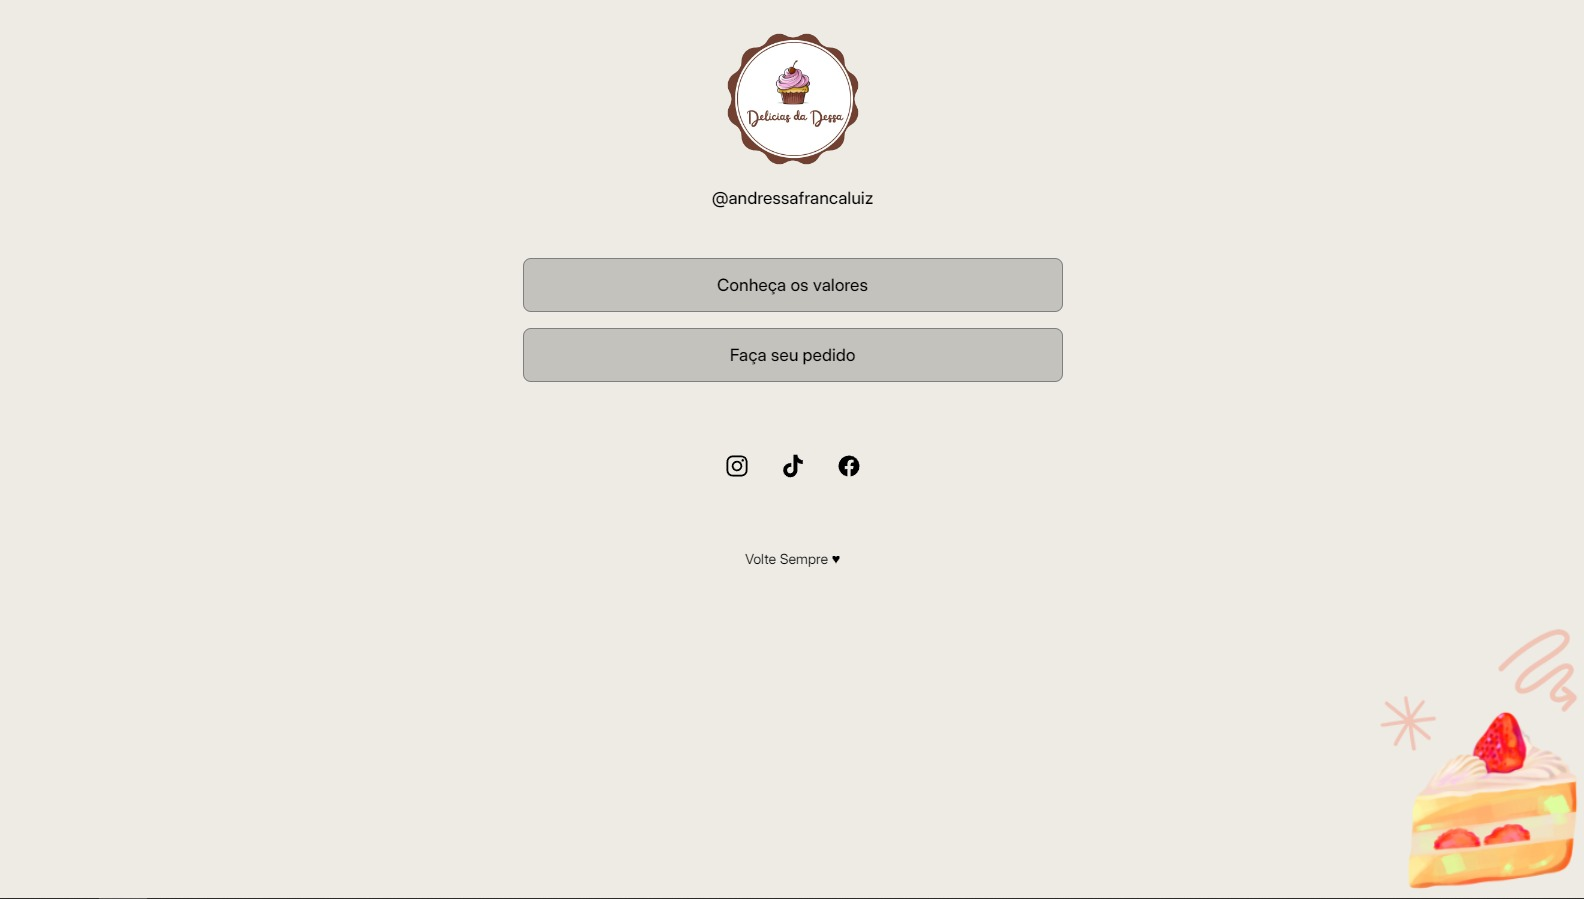
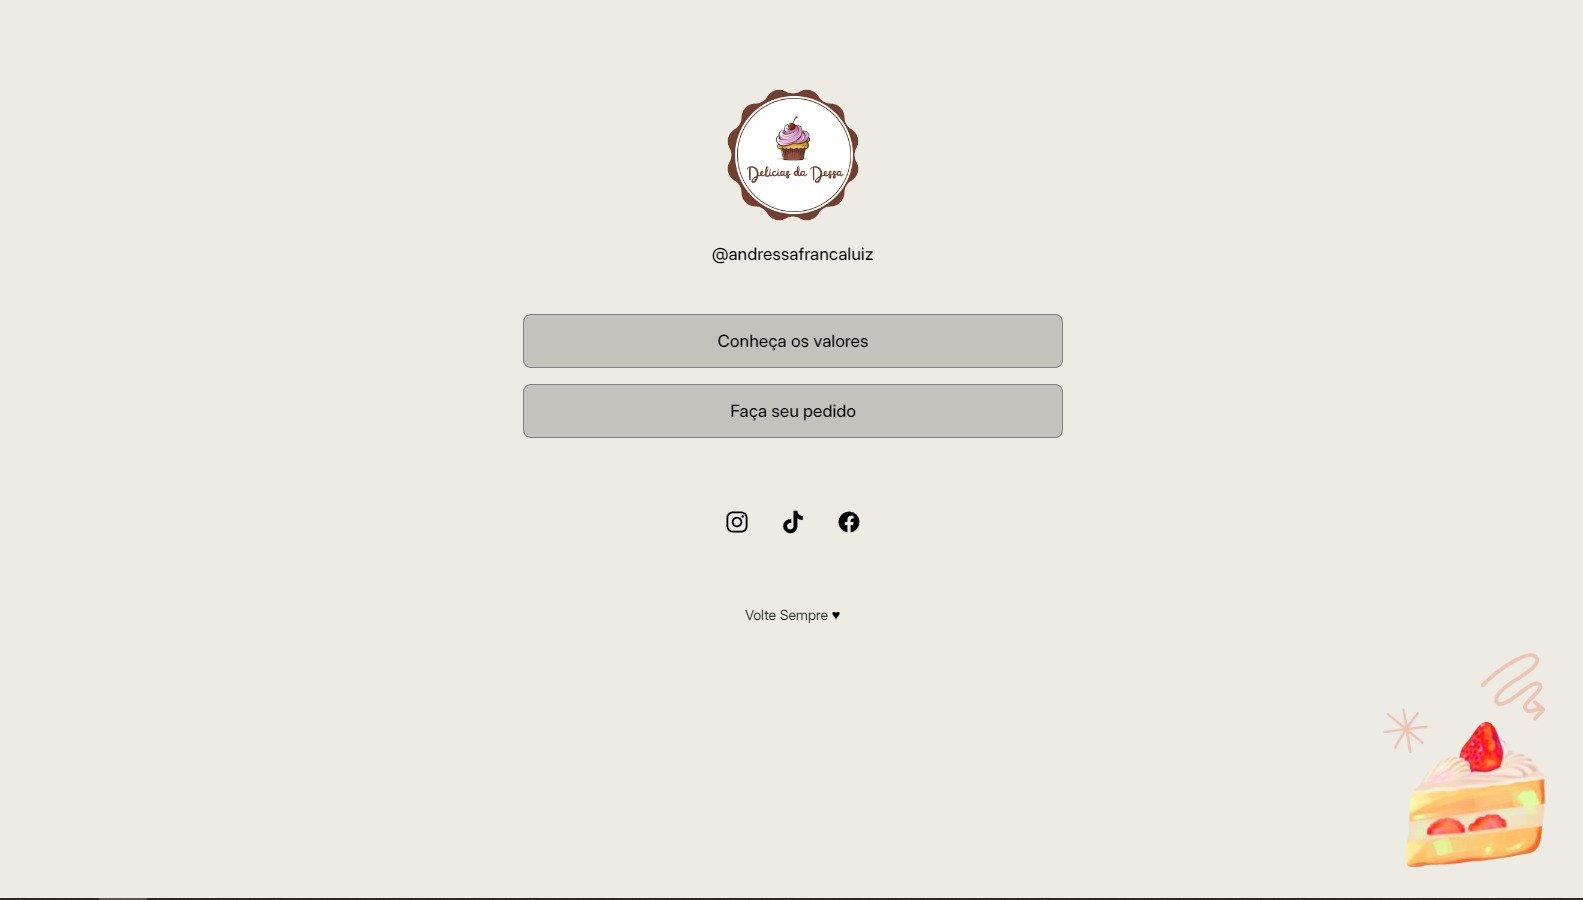
backgroung collor and README update

diff --git a/style.css b/style.css
@@ -5,6 +5,7 @@
 }
 
 body {
+  background-color: #edebe4;
   background-repeat: no-repeat;
   background-position: bottom center;
   background-size: cover;
@@ -108,7 +109,6 @@ footer {
 
 /* Criei uma media query para remover a imagem do bolo em dispositivo com largura de tela menor que '1023px' */
 @media screen and (max-width: 1023px) {
-
   .img-background img {
     width: 100px;
 
